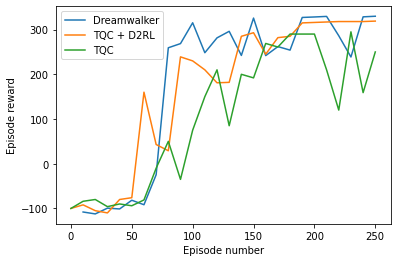
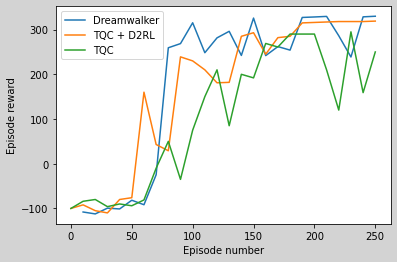
[MINOR] Changed images themselves to have background.

Changed region(s): [[0.0, 0.0, 1.0, 1.0]]

diff --git a/README.md b/README.md
@@ -61,7 +61,7 @@ To run the Dreamwalker model, follow these steps:
 
 The Dreamwalker agent outperforms vanilla TQC + D2RL implementation in terms of policy performance and sample efficiency. The agent successfully completes the Bipedal Walker environment and its hardcore variant in 74 and 256 episodes respectively. In the regular environment, the agent converges on the optimal policy after about 125 steps. In the hardcore environment, the agent reaches an average reward of 200 at episode 620 learning from scratch, reaching a maximum reward of 297 over the past 10 episodes after 1500 episodes.
 
-<div style="background-color: grey;" align="center">
+<div align="center">
     <img src="https://github.com/ArijusLengvenis/bipedal-walker-dreamer/blob/main/img/compare.png?raw=true" alt="compare graph"/>
     <img src="https://github.com/ArijusLengvenis/bipedal-walker-dreamer/blob/main/img/hardcore1500.png?raw=true" alt="hardcore graph"/>
 </div>
